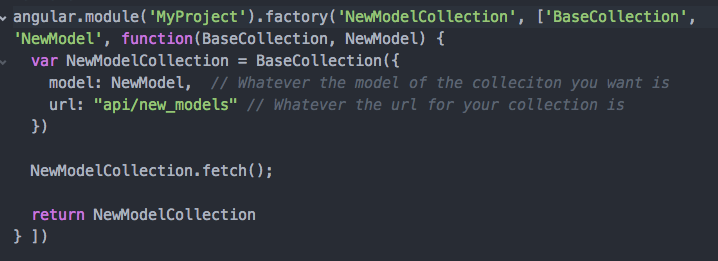
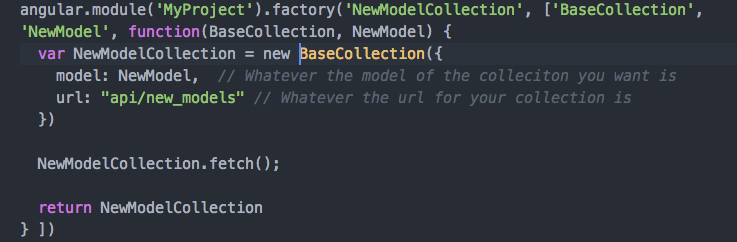
Add collection information

diff --git a/ModelFactory.js b/ModelFactory.js
@@ -177,8 +177,10 @@ ModelFactory.factory('BaseCollection', ['$http',function($http) {
   }
 
   BaseCollection.prototype.each = function(callback) {
-    for (model in this.models) {
-      callback(model);
+      var model, idx
+    for (idx = 0; idx < this.models.length; idx++) {
+      model = this.models[idx];
+      callback.call(this, model, idx, this.models)
     }
     return this;
   }
@@ -259,10 +261,11 @@ ModelFactory.factory('BaseCollection', ['$http',function($http) {
   }
 
   BaseCollection.prototype.where = function(callback) {
-    var result = new BaseCollection({
+    var result = new this.constructor({
       model: this.model,
       url: undefined,
-      comparator: this.comparator
+      comparator: this.comparator,
+      reverse: this.reverse
     })
 
     this.models.forEach(function(model) {

diff --git a/examples/ExampleCollection.js b/examples/ExampleCollection.js
@@ -1,7 +1,7 @@
 
 // Unlike the BaseModel, the BaseColleciton can be used as is, without create a new one
 angular.module('MyProject').factory('NewModelCollection', ['BaseCollection', 'NewModel', function(BaseCollection, NewModel) {
-  var NewModelCollection = BaseCollection({
+  var NewModelCollection = new BaseCollection({
     model: NewModel,  // Whatever the model of the colleciton you want is
     url: "api/new_models" // Whatever the url for your collection is
   })

diff --git a/Readme.md b/Readme.md
@@ -15,8 +15,6 @@ To bind the attributes to an input, you can't use the get or set methods. Instea
 
 ### Methods
 
-
-#### Public
 + BaseModel.parentOf(class) : Creates an inheritance structure, establishing BaseModel as the parent class of the given class
 + initialize(data) : the initialization function. Takes the data object and calls updateAttributes. Also sets this.\_collection
 + fetch(options) fetches data, can take success and error callbacks in the options
@@ -27,10 +25,30 @@ To bind the attributes to an input, you can't use the get or set methods. Instea
 + save(options) : attempts to create or update the model in the database depending on the result of the isNew method. Takes an options object with a success callback and an error callback
 + destroy(options) : issues a delete request to the url given _url_. If successful, it then removes itself from all collections
 
-#### Private
-+ updateAttributes(data) : takes an object as the parameter and then assigns each key value pair to the attributes object. If the key already exists, it's overwritten
-+ create(options) : called by _save_ to make a post request to the server
-+ update(options) : called by _save_ to make a put request to the server
-
 
 ## Collections
+  A collection represents a set of models. At the moment, each model should have an id attribute, but I'll be working to add cid's next so that won't be for long.
+
+  There are two ways to instantiate a new collection. The first is creating a new subclass of collection, like so
+  ![new-collection1](./images/new-collection2.png)
+  After creating the subclass and calling this.initialize(), you type _BaseCollection.parentOf(subclass)_. This will establish the inheritance structure.
+
+   Unlike a BaseModel, the BaseCollection can be used on it's own, without creating a new subclass. This is because in most basic cases, the only thing that changes between collections is the url and the model attributes. So as long as you don't need to overwrite any existing methods or define new ones, you can do this:
+   ![new-collection2](./images/new-collection1.png)
+   BaseCollection(options) takes an options object, with a url and a model, as well as a comparator and reverse option.
+
+
+### Methods
+
++ fetch(options) : performs a get request to the collection's url, and then parses the returned data into models. Takes an options object, with success and error callbacks
++ addModels(dataArray) : takes a list of data attributes and converts it into model objects, then adds them to the collection
++ addModel(data) : takes a single data object and transforms it into the corresponding model, then adds the model to the collection
++ add(model) : takes a model and adds it to the collection
++ find(id) : takes an id and finds and returns the model with that id. Returns undefined if no model with that id exists.
++ findIndex(id) : same as _find_, but returns the index of the given model, or -1 if it's not found.
++ remove(id||model) : removes the given model from the collection.
++ sort(callback) : sorts the model collection, either by the comparator or by the callback. The callback must return 1 , -1, or 0.
++ each(callback) : takes a callback, and performs it once for each model, passing the model, the index, and the array in that order. It also uses call to bind the collection as _this_ unless the callback is otherwise bound
++ where(callback) : takes a callback that should return either true or false as a parameter and returns a duplicated collection containing only models that returned true.
++ all() : returns an array containing all models
++ first(n) : takes an integer, n, and returns the first n models.
